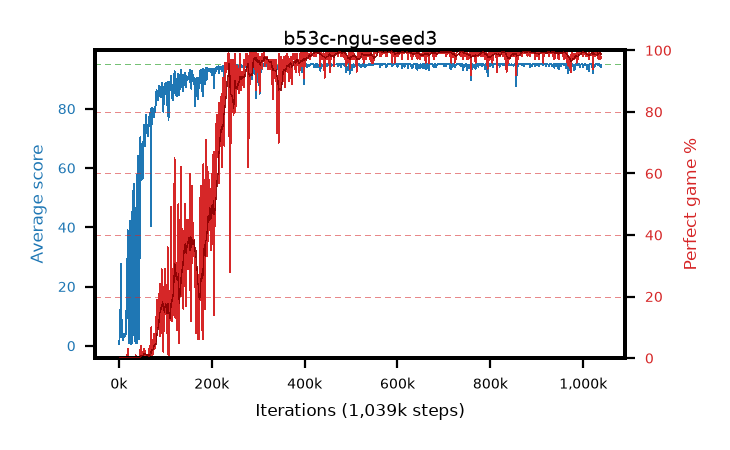
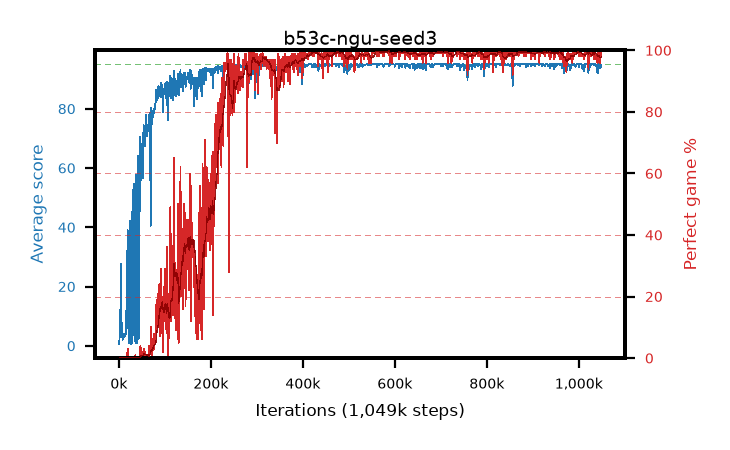
live pictures of 4 arm(s)

diff --git a/results/b53d-ngu-seed4/b53d-ngu-seed4.md b/results/b53d-ngu-seed4/b53d-ngu-seed4.md
@@ -1,6 +1,6 @@
 # b53d-ngu-seed4
 
-step **1,049,000** · 1049 evals · trailing **94.89** · peak **94.94** @1,040,000 · sef **71.2** · best30 **99.7** @1,024,000
+step **1,059,000** · 1059 evals · trailing **94.9** · peak **94.94** @1,040,000 · sef **71.5** · best30 **99.7** @1,024,000
 
 ## Config
 
@@ -80,15 +80,15 @@ step **1,049,000** · 1049 evals · trailing **94.89** · peak **94.94** @1,040,
 | 2000 | 2.39 | 1.47 | 0.0 | 8.0 | 1.286 | 0.0 | 0.4 |
 | 3000 | 6.99 | 3.31 | 0.0 | 25.0 | 5.34 | 0.0 | 0.4 |
 | ... | ... | ... | ... | ... | ... | ... | ... |
-| 1038000 | 94.97 | 94.92 | 92.0 | 95.0 | 192.659 | 99.0 | 0.4 |
-| 1039000 | 94.95 | 94.92 | 90.0 | 95.0 | 192.653 | 99.0 | 0.4 |
-| 1040000 | 94.96 | 94.94 | 91.0 | 95.0 | 192.603 | 99.0 | 0.4 |
-| 1041000 | 94.31 | 94.92 | 36.0 | 95.0 | 189.884 | 97.0 | 0.4 |
-| 1042000 | 94.94 | 94.91 | 89.0 | 95.0 | 192.595 | 99.0 | 0.4 |
-| 1043000 | 94.94 | 94.91 | 89.0 | 95.0 | 192.592 | 99.0 | 0.4 |
-| 1044000 | 95.0 | 94.91 | 95.0 | 95.0 | 193.691 | 100.0 | 0.4 |
-| 1045000 | 94.35 | 94.89 | 30.0 | 95.0 | 192.013 | 99.0 | 0.4 |
-| 1046000 | 95.0 | 94.89 | 95.0 | 95.0 | 193.678 | 100.0 | 0.4 |
-| 1047000 | 95.0 | 94.89 | 95.0 | 95.0 | 193.696 | 100.0 | 0.4 |
 | 1048000 | 94.91 | 94.89 | 86.0 | 95.0 | 192.562 | 99.0 | 0.4 |
 | 1049000 | 95.0 | 94.89 | 95.0 | 95.0 | 193.694 | 100.0 | 0.4 |
+| 1050000 | 94.97 | 94.9 | 92.0 | 95.0 | 192.624 | 99.0 | 0.4 |
+| 1051000 | 94.79 | 94.89 | 74.0 | 95.0 | 192.486 | 99.0 | 0.4 |
+| 1052000 | 95.0 | 94.89 | 95.0 | 95.0 | 193.668 | 100.0 | 0.4 |
+| 1053000 | 94.93 | 94.89 | 88.0 | 95.0 | 192.626 | 99.0 | 0.4 |
+| 1054000 | 94.98 | 94.89 | 93.0 | 95.0 | 192.648 | 99.0 | 0.4 |
+| 1055000 | 95.0 | 94.89 | 95.0 | 95.0 | 193.692 | 100.0 | 0.4 |
+| 1056000 | 94.93 | 94.89 | 88.0 | 95.0 | 192.581 | 99.0 | 0.4 |
+| 1057000 | 94.98 | 94.89 | 93.0 | 95.0 | 192.647 | 99.0 | 0.4 |
+| 1058000 | 94.51 | 94.9 | 46.0 | 95.0 | 192.163 | 99.0 | 0.4 |
+| 1059000 | 94.83 | 94.9 | 78.0 | 95.0 | 192.526 | 99.0 | 0.4 |

diff --git a/results/b53c-ngu-seed3/b53c-ngu-seed3.md b/results/b53c-ngu-seed3/b53c-ngu-seed3.md
@@ -1,6 +1,6 @@
 # b53c-ngu-seed3
 
-step **1,039,000** · 1039 evals · trailing **94.61** · peak **94.93** @574,000 · sef **78.0** · best30 **99.6** @585,000
+step **1,049,000** · 1049 evals · trailing **94.39** · peak **94.93** @574,000 · sef **78.2** · best30 **99.6** @585,000
 
 ## Config
 
@@ -80,15 +80,15 @@ step **1,039,000** · 1039 evals · trailing **94.61** · peak **94.93** @574,00
 | 2000 | 6.19 | 3.38 | 0.0 | 14.0 | 2.147 | 0.0 | 0.4 |
 | 3000 | 12.02 | 6.26 | 1.0 | 18.0 | 7.496 | 0.0 | 0.4 |
 | ... | ... | ... | ... | ... | ... | ... | ... |
-| 1028000 | 94.93 | 94.54 | 88.0 | 95.0 | 192.637 | 99.0 | 0.4 |
-| 1029000 | 94.97 | 94.54 | 92.0 | 95.0 | 192.625 | 99.0 | 0.4 |
-| 1030000 | 95.0 | 94.58 | 95.0 | 95.0 | 193.702 | 100.0 | 0.4 |
-| 1031000 | 95.0 | 94.59 | 95.0 | 95.0 | 193.701 | 100.0 | 0.4 |
-| 1032000 | 94.92 | 94.59 | 90.0 | 95.0 | 191.567 | 98.0 | 0.4 |
-| 1033000 | 94.82 | 94.58 | 83.0 | 95.0 | 190.451 | 97.0 | 0.4 |
-| 1034000 | 95.0 | 94.58 | 95.0 | 95.0 | 193.695 | 100.0 | 0.4 |
-| 1035000 | 95.0 | 94.58 | 95.0 | 95.0 | 193.701 | 100.0 | 0.4 |
-| 1036000 | 94.95 | 94.58 | 90.0 | 95.0 | 192.624 | 99.0 | 0.4 |
-| 1037000 | 94.41 | 94.56 | 64.0 | 95.0 | 190.082 | 97.0 | 0.4 |
 | 1038000 | 94.2 | 94.59 | 18.0 | 95.0 | 190.82 | 98.0 | 0.4 |
 | 1039000 | 94.92 | 94.61 | 88.0 | 95.0 | 191.532 | 98.0 | 0.4 |
+| 1040000 | 92.73 | 94.57 | 23.0 | 95.0 | 187.289 | 96.0 | 0.4 |
+| 1041000 | 92.03 | 94.47 | 18.0 | 95.0 | 186.587 | 96.0 | 0.4 |
+| 1042000 | 93.64 | 94.5 | 26.0 | 95.0 | 190.265 | 98.0 | 0.4 |
+| 1043000 | 95.0 | 94.5 | 95.0 | 95.0 | 193.707 | 100.0 | 0.4 |
+| 1044000 | 95.0 | 94.5 | 95.0 | 95.0 | 193.694 | 100.0 | 0.4 |
+| 1045000 | 93.91 | 94.47 | 39.0 | 95.0 | 189.485 | 97.0 | 0.4 |
+| 1046000 | 93.85 | 94.43 | 46.0 | 95.0 | 188.376 | 96.0 | 0.4 |
+| 1047000 | 94.85 | 94.42 | 83.0 | 95.0 | 191.482 | 98.0 | 0.4 |
+| 1048000 | 94.71 | 94.41 | 72.0 | 95.0 | 191.327 | 98.0 | 0.4 |
+| 1049000 | 94.23 | 94.39 | 18.0 | 95.0 | 191.89 | 99.0 | 0.4 |

diff --git a/results/b53a-ngu-seed1/b53a-ngu-seed1.md b/results/b53a-ngu-seed1/b53a-ngu-seed1.md
@@ -1,6 +1,6 @@
 # b53a-ngu-seed1
 
-step **1,049,000** · 1049 evals · trailing **94.6** · peak **94.96** @643,000 · sef **73.2** · best30 **99.7** @643,000
+step **1,059,000** · 1059 evals · trailing **94.85** · peak **94.96** @643,000 · sef **73.5** · best30 **99.7** @643,000
 
 ## Config
 
@@ -80,15 +80,15 @@ step **1,049,000** · 1049 evals · trailing **94.6** · peak **94.96** @643,000
 | 2000 | 8.43 | 4.84 | 0.0 | 21.0 | 7.201 | 0.0 | 0.4 |
 | 3000 | 8.52 | 6.07 | 0.0 | 26.0 | 5.525 | 0.0 | 0.4 |
 | ... | ... | ... | ... | ... | ... | ... | ... |
-| 1038000 | 94.9 | 94.42 | 85.0 | 95.0 | 192.553 | 99.0 | 0.4 |
-| 1039000 | 94.97 | 94.47 | 92.0 | 95.0 | 192.676 | 99.0 | 0.4 |
-| 1040000 | 94.76 | 94.53 | 85.0 | 95.0 | 190.421 | 97.0 | 0.4 |
-| 1041000 | 94.92 | 94.56 | 89.0 | 95.0 | 191.589 | 98.0 | 0.4 |
-| 1042000 | 94.98 | 94.61 | 93.0 | 95.0 | 192.672 | 99.0 | 0.4 |
-| 1043000 | 94.99 | 94.63 | 94.0 | 95.0 | 192.649 | 99.0 | 0.4 |
-| 1044000 | 94.98 | 94.63 | 93.0 | 95.0 | 192.623 | 99.0 | 0.4 |
-| 1045000 | 94.42 | 94.61 | 37.0 | 95.0 | 192.066 | 99.0 | 0.4 |
-| 1046000 | 94.99 | 94.61 | 94.0 | 95.0 | 192.635 | 99.0 | 0.4 |
-| 1047000 | 94.99 | 94.62 | 94.0 | 95.0 | 192.638 | 99.0 | 0.4 |
 | 1048000 | 95.0 | 94.62 | 95.0 | 95.0 | 193.673 | 100.0 | 0.4 |
 | 1049000 | 94.49 | 94.6 | 44.0 | 95.0 | 192.141 | 99.0 | 0.4 |
+| 1050000 | 94.97 | 94.62 | 92.0 | 95.0 | 192.667 | 99.0 | 0.4 |
+| 1051000 | 94.93 | 94.66 | 89.0 | 95.0 | 191.542 | 98.0 | 0.4 |
+| 1052000 | 94.85 | 94.67 | 86.0 | 95.0 | 190.483 | 97.0 | 0.4 |
+| 1053000 | 94.93 | 94.71 | 92.0 | 95.0 | 190.55 | 97.0 | 0.4 |
+| 1054000 | 94.98 | 94.76 | 93.0 | 95.0 | 192.69 | 99.0 | 0.4 |
+| 1055000 | 94.67 | 94.81 | 62.0 | 95.0 | 192.376 | 99.0 | 0.4 |
+| 1056000 | 94.44 | 94.8 | 64.0 | 95.0 | 186.85 | 94.0 | 0.4 |
+| 1057000 | 94.98 | 94.84 | 93.0 | 95.0 | 192.611 | 99.0 | 0.4 |
+| 1058000 | 94.91 | 94.84 | 88.0 | 95.0 | 190.493 | 97.0 | 0.4 |
+| 1059000 | 94.97 | 94.85 | 92.0 | 95.0 | 192.667 | 99.0 | 0.4 |
